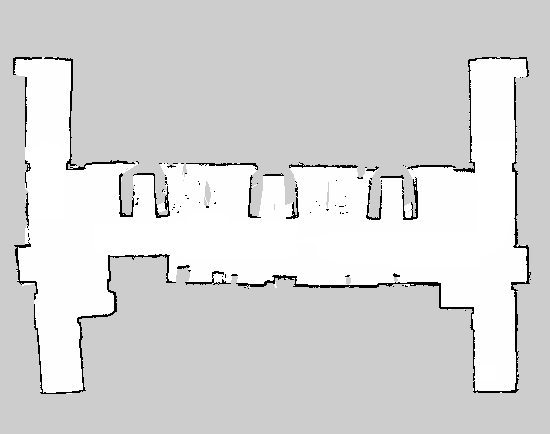
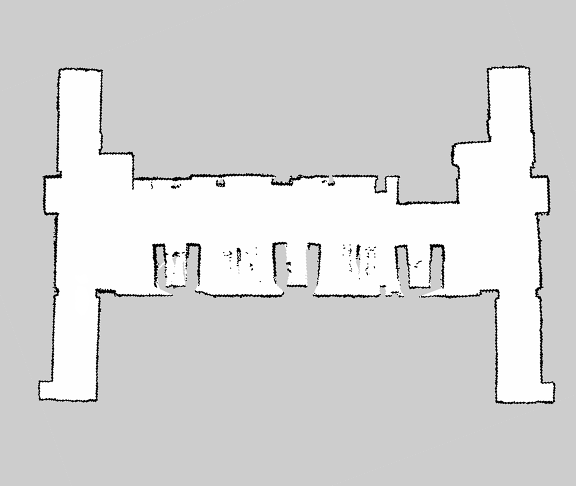
Refixed coords

diff --git a/webInterface/server/static/index.html b/webInterface/server/static/index.html
@@ -205,7 +205,7 @@
             for (i in data.locations) {
                 console.log(i)
                 sideBarstring += '<a class="side-bar-button">'+i+'<i class="material-icons directions">directions</i></a>'
-                locationsString += '<circle cx="' + (((data.locations[i].x-0.2)*0.4)+2.1)  + '" cy="' + (((Math.abs(data.locations[i].y-17.2)-1.6)*0.491)+1.6) + '" r="0.05" class="draggable"  stroke="#007bff" stroke-width="0.02" fill="white" ><title>' + i + '</title></circle>'
+                locationsString += '<circle cx="' + (((data.locations[i].x+11.47)/2.54)+3.24)  + '" cy="' + -(((data.locations[i].y-8.75)/2.53)-1.36) + '" r="0.05" class="draggable"  stroke="#007bff" stroke-width="0.02" fill="white" ><title>' + i + '</title></circle>'
             }
             document.getElementById("locations-g").innerHTML = locationsString
             document.getElementById("expandable").innerHTML = sideBarstring
@@ -215,8 +215,9 @@
 
         // Update with the robots position
         socket.on('robot-update', function (data) {
+            console.log(data)
             robotString = ""
-            robotString += '<rect x="' + (((data.x-0.2)*0.4)+2.1) + '" y="' + (((Math.abs(data.y-17.2)-1.6)*0.491)+1.6) + '" height="0.1" width="0.1" stroke="red" stroke-width="0.02" fill="red" ><title>Howard</title></rect>'
+            robotString += '<rect x="' +  (((data.x+11.47)/2.54)+3.24) + '" y="' + -(((data.y-8.75)/2.53)-1.36) + '" height="0.1" width="0.1" stroke="red" stroke-width="0.02" fill="red" ><title>Howard</title></rect>'
             document.getElementById("robot-g").innerHTML = robotString
         });
 
@@ -308,7 +309,7 @@
                     if (evt.target.attributes.transform.value != "translate(0)") {
                         xy = evt.target.attributes.transform.value.match(/\(([^)]+)\)/)[1].split(",")
                         console.log(evt.target.attributes.transform.value)
-                        socket.emit('newLandmark', { name: landmarkName, x: ((parseFloat(evt.target.attributes.cx.value) + parseFloat(xy[0])-2.1)/0.4)+0.2, y: ((parseFloat(evt.target.attributes.cy.value) + parseFloat(xy[1])-1.6)/0.491)+1.6+17.2 }) //name: evt.target.textContent, x: parseFloat(evt.target.attributes.cx.value) + parseFloat(xy[0]), y: parseFloat(evt.target.attributes.cy.value) + parseFloat(xy[1]) });
+                        socket.emit('newLandmark', { name:  evt.target.textContent, x: ((parseFloat(evt.target.attributes.cx.value) + parseFloat((((xy[0]-3.24)*2.54)-11.47)))), y: ((parseFloat(evt.target.attributes.cy.value) + parseFloat( (((-xy[0]+1.36)*2.53)+8.75)))) }) //name: evt.target.textContent, x: parseFloat(evt.target.attributes.cx.value) + parseFloat(xy[0]), y: parseFloat(evt.target.attributes.cy.value) + parseFloat(xy[1]) });
                     } else {
                         if (confirm("Delete " + evt.target.textContent + "?")) {
                             socket.emit('removeLandmark', { name: evt.target.textContent })
@@ -328,7 +329,7 @@
 <body>
     <div>
         <svg id="svg-main" onload="makeDraggable(evt)" viewBox="0 0 15 10">
-            <image onclick="clicked(evt)" href="/img/map.png" x="0" y="0" height="95%" transform="translate(2,0)" />
+            <image onclick="clicked(evt)" href="/img/map.png" x="0" y="0" width="90%" height="95%" transform="translate(1,0)" />
             <g id="locations-g"></g>
             <g id="robot-g"></g>
         </svg>
@@ -367,7 +368,7 @@
         var landmarkName = prompt("Create a new Landmark:", "Landmark Name");
         if (landmarkName != null) {
 
-            socket.emit('newLandmark', { name: landmarkName, x: ((m.x-2.1)/0.4)+0.2, y: ((m.y-1.6)/0.491)+1.6+17.2 });
+            socket.emit('newLandmark', { name: landmarkName, x: (((m.x-3.24)*2.54)-11.47), y: (((-m.y+1.36)*2.53)+8.75) });
         }
     }
 

diff --git a/landmarks/landmark/landmark.py b/landmarks/landmark/landmark.py
@@ -7,11 +7,11 @@ from geometry_msgs.msg import Pose
 from geometry_msgs.msg import Quaternion
 from geometry_msgs.msg import PoseStamped
 #to run the code if the robot is not running
-try:
-    import currentPose
-    pose = currentPose.CurrentPose()
-except:
-    pose = {"x":0,"y":0} 
+# try:
+#     # import currentPose
+#     pose = CurrentPose()
+# except:
+#     pose = {"x":0,"y":0} 
 
 pose = CurrentPose()
 pub = rospy.Publisher('/move_base/current_goal', PoseStamped, queue_size=100)
@@ -31,10 +31,10 @@ pub = rospy.Publisher('/move_base/current_goal', PoseStamped, queue_size=100)
 
 # sub = rospy.Subscriber('/amcl_pose',PoseWithCovarianceStamped, callback)
 locationsDict = {
-    "top left": {"x": 0.6,"y" :18.8} ,
-    "top right" : {"x" : 26.3, "y" :18.8},
-    "bottom left": {"x":2.1,"y":2.1},
-    "bottom right":{"x":25.8,"y":2.11}
+    "top left": {"x": -11.47,"y" :8.75} ,
+    "top right" : {"x" : 11.89, "y" :8.61},
+    "bottom left": {"x":-12.4,"y":-7.6},
+    "bottom right":{"x":13.24,"y":-7.83}
 }
 
 
@@ -80,7 +80,7 @@ def setLandmark(locString):
 #create a new Landmark based on position
 @app.route("/setLandmark/<locString>/<x>/<y>")
 def setLandmarkXY(locString,x,y):
-    locationsDict[locString]= {"x":x,"y":y}
+    locationsDict[locString]= {"x":float(x),"y":float(y)}
     return  "success"
 
 #Remove a landmark
@@ -123,7 +123,7 @@ def go_to(landmark):
     return "success"
 
 
-# @app.route("/current")
+@app.route("/current")
 def getCurrentPosition():
     try:
         return pose.get_pose()

diff --git a/webInterface/server/app.py b/webInterface/server/app.py
@@ -47,6 +47,7 @@ print("setup socket")
 
 
 def callback(msg):
+    print("aaaaaaaaaaaaaaaaaaaaaaaaaaaaaaaaaaaaaaaaaaaaaaaaaaaaaaaaaaaaa")
     pose = msg.pose.pose.position
     qur = msg.pose.pose.orientation
     x = pose.x
@@ -67,7 +68,7 @@ def root():
 @app.route('/img/map.png')
 def map():
     print("image")
-    return app.send_static_file('img/CS_LG.png')
+    return app.send_static_file('img/map.png')
 
 @app.route('/updateLocations')
 def updateLocations():
